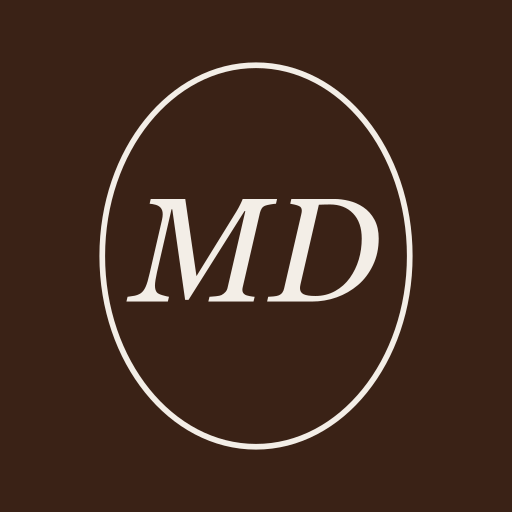
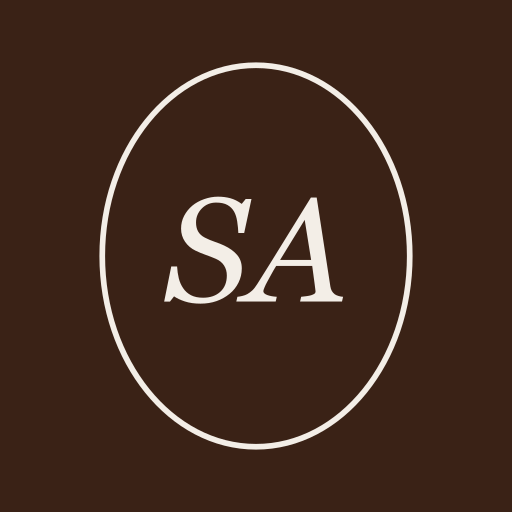
feat: turn the atelier site into a reusable demo template

Changed region(s): [[0.25, 0.375, 0.75, 0.5938]]

diff --git a/src/content.ts b/src/content.ts
@@ -5,7 +5,8 @@
    ========================================================================== */
 
 export const brand = {
-  name: 'Maison Doce',
+  /** DEMO: nome genérico de propósito; troque pelo nome do cliente (o site inteiro lê daqui) */
+  name: 'Seu Atelier',
   descriptor: 'Atelier de doces finos',
   signature: 'Doceria artesanal',
   region: 'Doces finos para eventos',
@@ -59,7 +60,7 @@ export const cut = {
 export const manifesto = {
   label: 'A casa',
   title: ['Sabores autorais,', 'aperfeiçoados', 'com o tempo.'],
-  body: 'Na Maison Doce, cada doce nasce de uma receita própria, desenvolvida e refinada até chegar à mesa do seu evento. Chocolate, fruta, castanha e técnica: o que importa é o que você sente na primeira mordida.',
+  body: 'Aqui, cada doce nasce de uma receita própria, desenvolvida e refinada até chegar à mesa do seu evento. Chocolate, fruta, castanha e técnica: o que importa é o que você sente na primeira mordida.',
   pillars: [
     { k: 'Receitas', v: 'autorais' },
     { k: 'Casamentos, formaturas', v: 'e eventos' },
@@ -72,7 +73,7 @@ export const mesa = {
   title: 'Eleve o nível do seu evento.',
   body: 'Doces finos para casamentos, formaturas e celebrações com montagem no local e serviço de copeiro durante o evento.',
   photos: [
-    { src: 'mesatarte2', alt: 'Mesa de doces finos da Maison Doce em salão de festas, com bolo branco e arranjos de hortênsias', caption: 'A mesa, posta' },
+    { src: 'mesatarte2', alt: 'Mesa de doces finos em salão de festas, com bolo branco e arranjos de hortênsias', caption: 'A mesa, posta' },
     { src: 'mesatarte', alt: 'Bandeja de prata em três andares com bombons de amêndoas, caramelo flor de sal e brigadeiros de pistache', caption: 'Amêndoas, flor de sal, pistache' },
     { src: 'mesatarte4', alt: 'Mini pavlovas com morango e mirtilo em bandeja de prata', caption: 'Mini pavlova' },
     { src: 'mesatarte3', alt: 'Bandejas com brigadeiros de ninho com nutella, amêndoas e morangos ao leite', caption: 'Ninho com Nutella, morango ao leite' },
@@ -232,10 +233,10 @@ export const degustacao = {
       n: 24,
       unit: 'doces na caixa degustação',
       price: 102.9,
-      body: 'Transforme a escolha dos seus doces em um momento íntimo e inesquecível. Com a caixa degustação, você leva a experiência Maison Doce para o conforto da sua casa.',
+      body: 'Transforme a escolha dos seus doces em um momento íntimo e inesquecível. Com a caixa degustação, você leva a experiência do ateliê para o conforto da sua casa.',
       terms: 'Entregas mediante agendamento',
       cta: 'Pedir a caixa',
-      message: 'Olá, Maison Doce! Gostaria de agendar a entrega de uma caixa degustação com 24 unidades.',
+      message: `Olá, ${brand.name}! Gostaria de agendar a entrega de uma caixa degustação com 24 unidades.`,
     },
     {
       id: 'espaco',
@@ -246,7 +247,7 @@ export const degustacao = {
       body: 'Uma degustação personalizada, pensada para noivos, formandos e quem deseja celebrar conosco. Apresentamos nossa seleção de doces finos com a atenção e o carinho que cada história merece.',
       terms: 'Visitas mediante agendamento · para 2 pessoas',
       cta: 'Agendar visita',
-      message: 'Olá, Maison Doce! Gostaria de agendar uma degustação no espaço do ateliê (para 2 pessoas).',
+      message: `Olá, ${brand.name}! Gostaria de agendar uma degustação no espaço do ateliê (para 2 pessoas).`,
     },
   ],
 };
@@ -290,7 +291,7 @@ export const faq = [
     a: 'De forma geral, entre 6 e 8 unidades por pessoa, variando conforme o estilo da festa, a duração do evento e a presença de sobremesas adicionais no menu.',
   },
   {
-    q: 'A Maison Doce fornece suportes de mesa, acervos ou materiais decorativos?',
+    q: 'O ateliê fornece suportes de mesa, acervos ou materiais decorativos?',
     a: 'No momento não fornecemos suportes e acervos. Indicamos uma das três locadoras parceiras: Locare, Ambientalize e Recanto.',
   },
   {
@@ -311,5 +312,5 @@ export const contato = {
   label: 'Contato',
   title: ['Agende sua', 'degustação.'],
   body: 'Conte a data, o local e o número de convidados. A gente cuida do resto, doce por doce.',
-  message: 'Olá, Maison Doce! Gostaria de conversar sobre doces finos para o meu evento.',
+  message: `Olá, ${brand.name}! Gostaria de conversar sobre doces finos para o meu evento.`,
 };

diff --git a/index.html b/index.html
@@ -3,12 +3,12 @@
   <head>
     <meta charset="UTF-8" />
     <meta name="viewport" content="width=device-width, initial-scale=1, viewport-fit=cover" />
-    <title>Maison Doce · Demonstração de site</title>
-    <meta name="description" content="Maison Doce, atelier de doces finos. Doces autorais para casamentos, formaturas e eventos, bem-casados personalizados e degustações mediante agendamento." />
+    <title>Seu Atelier · Demonstração de site</title>
+    <meta name="description" content="Seu Atelier: modelo de site para ateliês de doces finos. Doces autorais para casamentos, formaturas e eventos, bem-casados personalizados e degustações mediante agendamento." />
     <meta name="robots" content="noindex, nofollow" />
     <meta name="theme-color" content="#F3EEE7" />
     <meta property="og:type" content="website" />
-    <meta property="og:title" content="Maison Doce · Demonstração de site" />
+    <meta property="og:title" content="Seu Atelier · Demonstração de site" />
     <meta property="og:description" content="Sabores autorais, aperfeiçoados com o tempo." />
     <meta property="og:image" content="./media/og.jpg" />
     <link rel="icon" href="./favicon-32.png" type="image/png" sizes="32x32" />

diff --git a/src/components/Hero.tsx b/src/components/Hero.tsx
@@ -11,6 +11,8 @@ import { LAYER_KEYS, layerEls } from '../gl/layers';
 const Cake = lazy(() => import('../gl/Cake'));
 
 const CHAPTERS = ['Vitrine', 'Lâmina', 'Abertura', 'Por dentro'];
+/** o nome em duas linhas, uma de cada lado do bolo */
+const WORDS = [brand.name.split(' ')[0], brand.name.split(' ').slice(1).join(' ')];
 const ROMAN = ['I', 'II', 'III', 'IV'];
 
 export default function Hero() {
@@ -76,13 +78,13 @@ export default function Hero() {
   );
 
   return (
-    <section className="hero" id="topo" ref={root} aria-label="Maison Doce, atelier de doces finos">
+    <section className="hero" id="topo" ref={root} aria-label={`${brand.name}, ${brand.descriptor.toLowerCase()}`}>
       <h1 className="hero__title" aria-label={`${brand.name}, ${brand.descriptor}`}>
         <span className="hero__word hero__word--a" aria-hidden="true">
-          Maison
+          {WORDS[0]}
         </span>
         <span className="hero__word hero__word--b" aria-hidden="true">
-          Doce
+          {WORDS[1]}
         </span>
       </h1>
 

diff --git a/src/components/Produto.tsx b/src/components/Produto.tsx
@@ -1,5 +1,5 @@
 import { lazy, Suspense, useMemo, useRef, useState, type CSSProperties } from 'react';
-import { produto, produtoFlavors, produtoPapers, produtoRibbons } from '../content';
+import { brand, produto, produtoFlavors, produtoPapers, produtoRibbons } from '../content';
 import { brl } from '../lib/env';
 import { useReveal } from '../lib/reveal';
 import { sendOrder } from '../lib/order';
@@ -30,7 +30,7 @@ export default function Produto() {
   const total = produto.price != null ? produto.price * guests : null;
 
   const message = [
-    `Olá, Maison Doce! Gostaria de um orçamento de ${produto.label.toLowerCase()}:`,
+    `Olá, ${brand.name}! Gostaria de um orçamento de ${produto.label.toLowerCase()}:`,
     `• ${guests} unidades`,
     `• Papel ${produtoPapers[paper].name.toLowerCase()}, fita ${produtoRibbons[ribbon].name.toLowerCase()}`,
     `• Recheio: ${produtoFlavors[flavor].name.toLowerCase()}`,

diff --git a/src/components/MenuSheet.tsx b/src/components/MenuSheet.tsx
@@ -1,7 +1,7 @@
 import { useEffect, useLayoutEffect, useRef, useState, type PointerEvent as RPointerEvent } from 'react';
 import { createPortal } from 'react-dom';
 import gsap from 'gsap';
-import { degustacao, type MenuItem } from '../content';
+import { brand, degustacao, type MenuItem } from '../content';
 import { brl, REDUCED } from '../lib/env';
 import { sendOrder } from '../lib/order';
 import { scroller, scrollToId } from '../lib/scroller';
@@ -136,7 +136,7 @@ export default function MenuSheet({
     }
   };
 
-  const message = `Olá, Maison Doce! Tenho interesse no ${item.name} (${brl(item.price)} a unidade) para o meu evento.\nData, local e número de convidados: `;
+  const message = `Olá, ${brand.name}! Tenho interesse no ${item.name} (${brl(item.price)} a unidade) para o meu evento.\nData, local e número de convidados: `;
 
   const toTasting = () => {
     close();

diff --git a/src/components/Preloader.tsx b/src/components/Preloader.tsx
@@ -2,9 +2,10 @@ import { useEffect, useRef, useState } from 'react';
 import gsap from 'gsap';
 import { REDUCED } from '../lib/env';
 import { markReady } from '../lib/scroller';
+import { brand } from '../content';
 import Monogram from './Monogram';
 
-const WORD = 'MAISON DOCE';
+const WORD = brand.name.toUpperCase();
 
 /** primeiro quadro do bolo desenhado (shader compilado) */
 const glReady = () =>
@@ -63,7 +64,7 @@ export default function Preloader() {
   if (gone) return null;
 
   return (
-    <div className="preloader" ref={root} role="status" aria-label="Carregando Maison Doce">
+    <div className="preloader" ref={root} role="status" aria-label={`Carregando ${brand.name}`}>
       <div className="preloader__lid preloader__lid--top" />
       <div className="preloader__lid preloader__lid--bottom" />
       <div className="preloader__center">

diff --git a/src/components/Planner.tsx b/src/components/Planner.tsx
@@ -1,6 +1,6 @@
 import { useEffect, useRef, useState, type CSSProperties } from 'react';
 import gsap from 'gsap';
-import { planner } from '../content';
+import { brand, planner } from '../content';
 import { brl, clamp, damp, REDUCED } from '../lib/env';
 import { useReveal } from '../lib/reveal';
 import { sendOrder } from '../lib/order';
@@ -136,7 +136,7 @@ export default function Planner() {
   const pct = ((guests - planner.guests.min) / (planner.guests.max - planner.guests.min)) * 100;
 
   const message = [
-    'Olá, Maison Doce! Estou planejando a mesa de doces finos:',
+    `Olá, ${brand.name}! Estou planejando a mesa de doces finos:`,
     `• ${guests} convidados, cerca de ${fmt(units)} doces (${per} por pessoa)`,
     waiter ? '• Gostaria do serviço de copeiro durante o evento' : '',
     'Data e local do evento: ',

diff --git a/src/styles/global.css b/src/styles/global.css
@@ -1,5 +1,5 @@
 /* ==========================================================================
-   Maison Doce · atelier de doces finos
+   Seu Atelier · modelo de site para ateliês de doces finos
    Papel de estúdio, ganache, creme e ouro de folha. Cormorant Garamond + Jost.
    O oval do monograma e o arco do post da casa são as molduras do site.
    ========================================================================== */
@@ -736,6 +736,12 @@ main {
 
 .hero__word .ch {
   padding-bottom: 0.1em;
+}
+
+/* a máscara da entrada só precisa cortar na vertical (as letras sobem do papel):
+   na horizontal, o itálico passa da caixa da letra e a ponta do "r" sumiria */
+.hero__word .ch-mask {
+  overflow-x: visible !important;
 }
 
 .hero__word--a {

diff --git a/src/components/Header.tsx b/src/components/Header.tsx
@@ -82,9 +82,9 @@ export default function Header() {
 
   return (
     <header className={`hud ${open ? 'is-open' : ''}`} ref={root}>
-      <button className="hud__brand" onClick={() => go('topo')} aria-label="Maison Doce, voltar ao início" data-cursor="início">
+      <button className="hud__brand" onClick={() => go('topo')} aria-label={`${brand.name}, voltar ao início`} data-cursor="início">
         <Monogram className="hud__mono" />
-        <span className="hud__word">Maison Doce</span>
+        <span className="hud__word">{brand.name}</span>
       </button>
 
       <nav className="hud__nav" aria-label="Seções">

diff --git a/src/gl/timeline.ts b/src/gl/timeline.ts
@@ -71,7 +71,7 @@ export function frameAt(p: number, time: number, rise: number, mx: number, my: n
   // retrato pede câmera mais longe para caber o bolo inteiro
   const far = aspect < 1 ? Math.pow(1 / aspect, 0.8) : 1;
 
-  // paisagem: o bolo fica entre "Maison" e "Doce", sem esconder nenhuma letra
+  // paisagem: o bolo fica entre as duas palavras do nome, sem esconder nenhuma letra
   const pan = aspect < 1 ? 0 : 0.46;
   // em retrato o nome fica empilhado no topo: o bolo desce no quadro
   const ta0: V3 = [pan, aspect < 1 ? 1.0 : 0.56, 0];

diff --git a/src/components/Degustacao.tsx b/src/components/Degustacao.tsx
@@ -73,7 +73,7 @@ export default function Degustacao() {
         ))}
 
         <figure className="degust__photo" data-veil>
-          <Img src="degustacao" alt="Caixa degustação da Maison Doce aberta, com brigadeiros e bombons sortidos" sizes="(max-width: 899px) 80vw, 26vw" />
+          <Img src="degustacao" alt="Caixa degustação aberta, com brigadeiros e bombons sortidos" sizes="(max-width: 899px) 80vw, 26vw" />
         </figure>
       </div>
     </section>

diff --git a/src/components/Monogram.tsx b/src/components/Monogram.tsx
@@ -2,7 +2,7 @@ import type { CSSProperties } from 'react';
 
 const url = `${import.meta.env.BASE_URL}media/monogram.png`;
 
-/** monograma demonstrativo MD (scripts/monogram.mjs), usado como máscara: pega a cor do texto */
+/** monograma demonstrativo SA (scripts/monogram.mjs), usado como máscara: pega a cor do texto */
 export default function Monogram({ className = '', style }: { className?: string; style?: CSSProperties }) {
   return (
     <span
